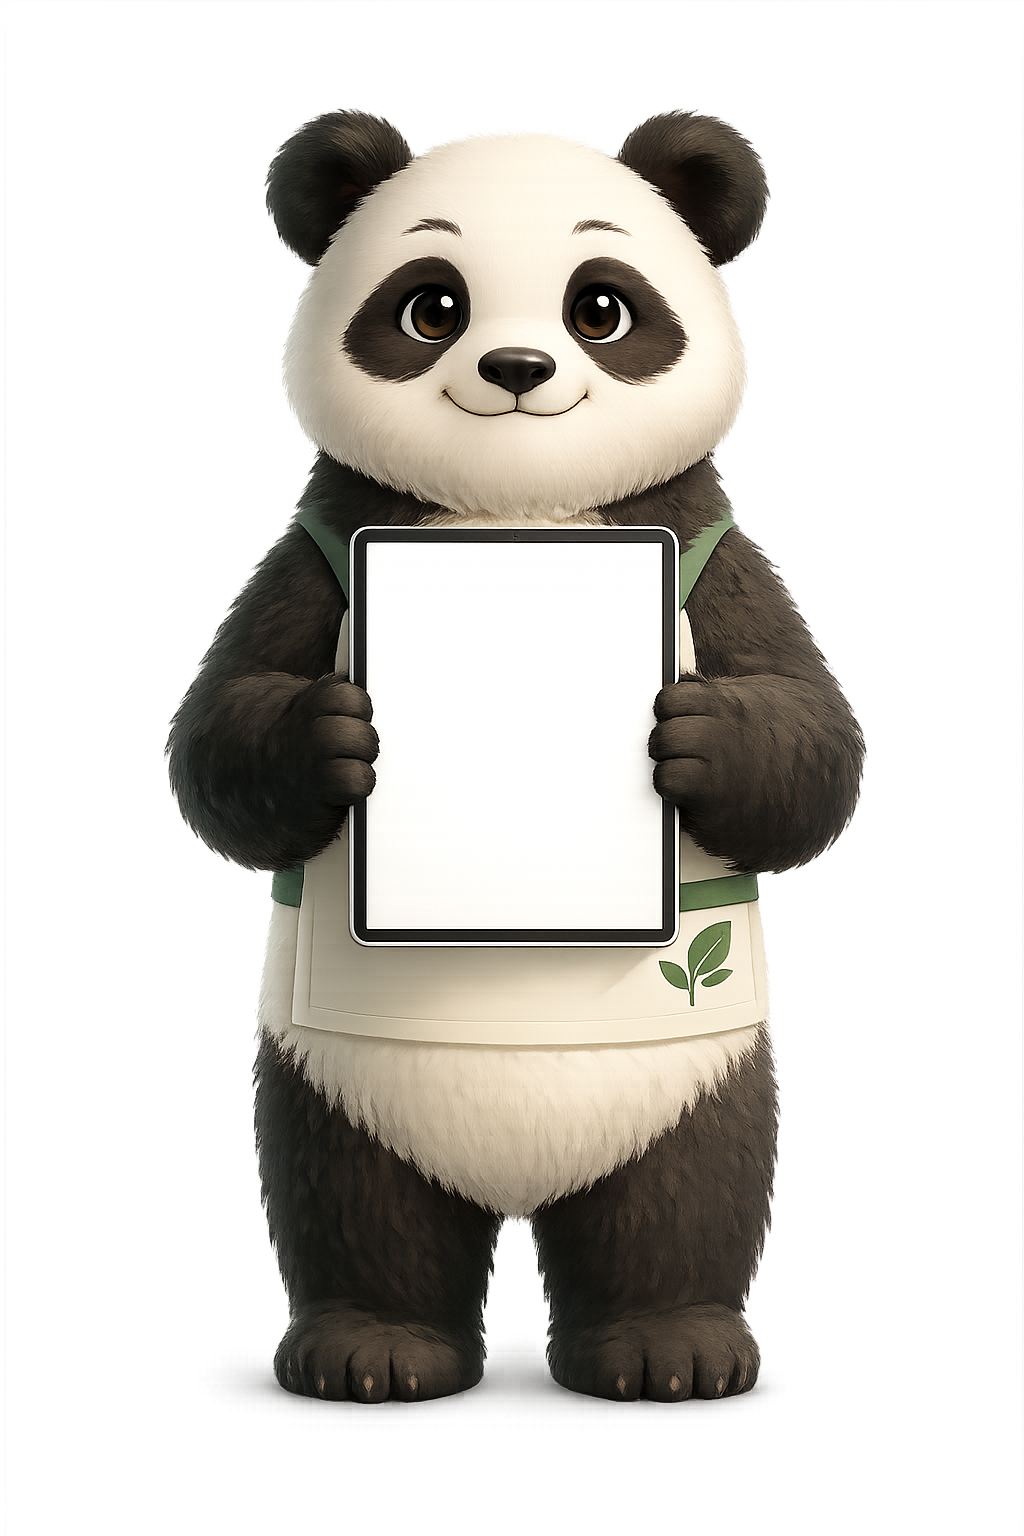
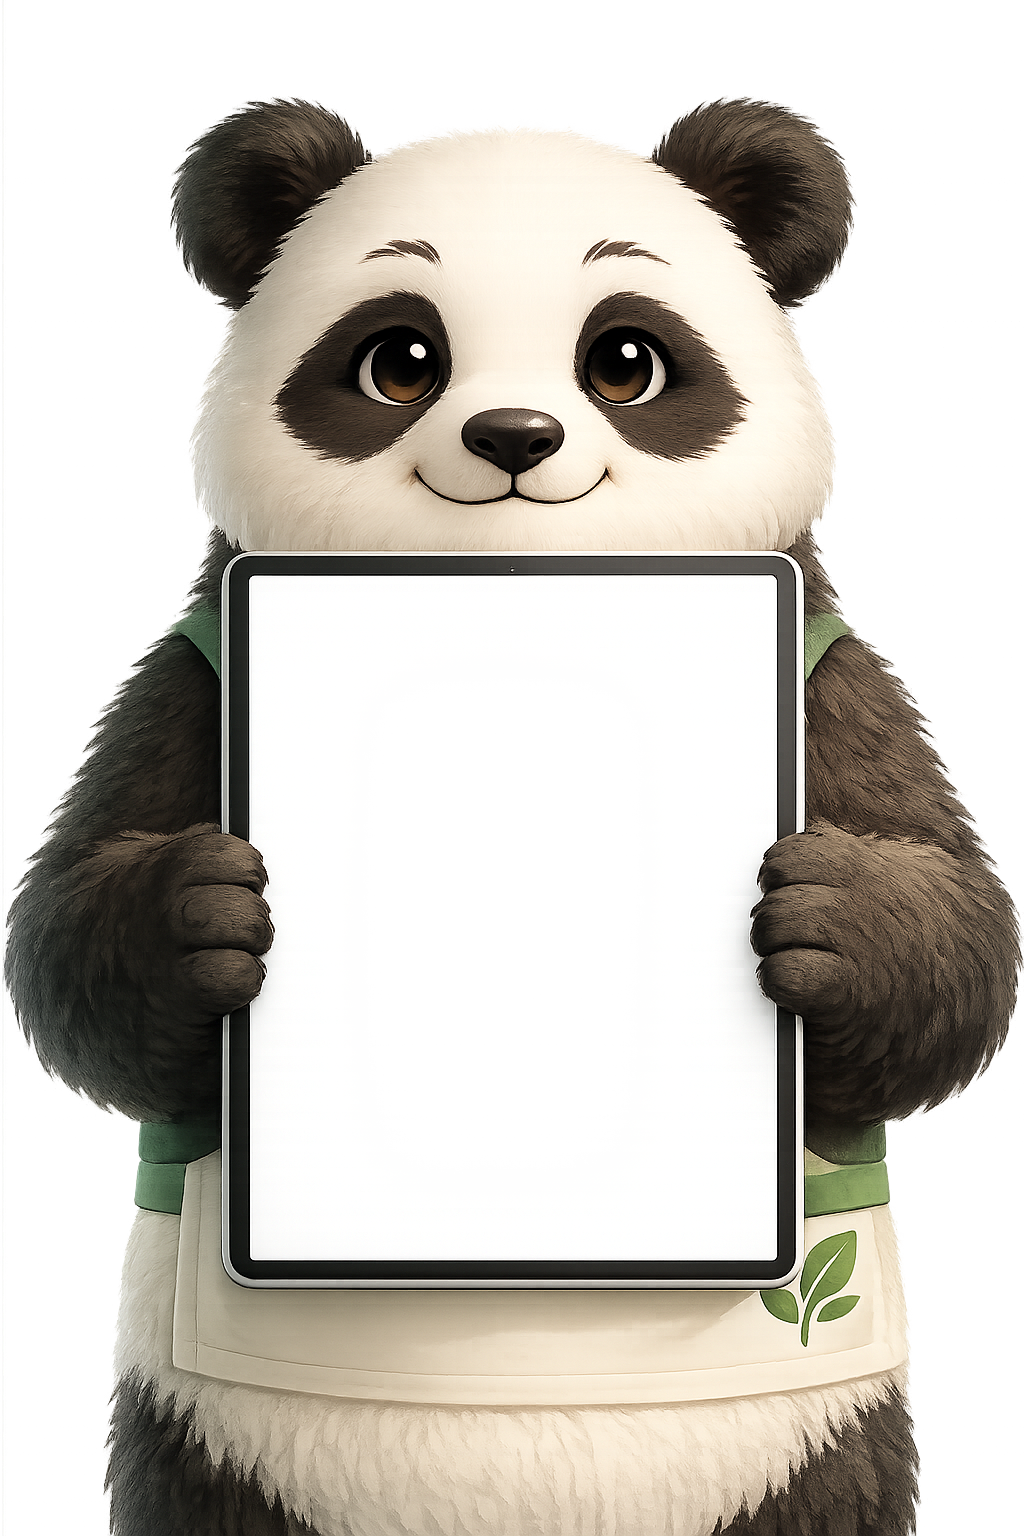
fullbleed: bigger tablet — restore comfortable form typography
- New panda PNG (1024×1536) with the tablet at ~51%×46% of frame
  (vs 32%×26% previously). Black bg flood-filled to transparent.
- Screen-rect re-measured: top 35.9 / left 24.4 / right 24.2 /
  bottom 18.0
- max-width: 760 → 720 (column has enough room now)
- Form typography restored to readable sizes:
    h3 13→18, labels 9→10.5, inputs 10.5→13,
    button 11→13, fine 8→10.5,
    paddings 14→22, gaps and margins +50–80%

diff --git a/fullbleed/index.html b/fullbleed/index.html
@@ -321,14 +321,14 @@
   .panda-tablet{
     position:relative;
     width:100%;
-    max-width:760px;
+    max-width:720px;
     margin:0 auto;
     aspect-ratio: 2 / 3;          /* matches the PNG (1024×1536) */
     /* exact screen rect measured from the PNG */
-    --screen-top:    35.4%;
-    --screen-left:   34.4%;
-    --screen-right:  33.8%;
-    --screen-bottom: 38.5%;
+    --screen-top:    35.9%;
+    --screen-left:   24.4%;
+    --screen-right:  24.2%;
+    --screen-bottom: 18.0%;
   }
   .panda-tablet .pt-image{
     width:100%;height:100%;object-fit:contain;display:block;
@@ -350,33 +350,32 @@
     left:var(--screen-left);
     right:var(--screen-right);
     bottom:var(--screen-bottom);
-    margin:0;padding:14px 13px;
-    border-radius:6px;
+    margin:0;padding:22px 22px;
+    border-radius:8px;
     background:#fff;color:var(--ink-900);
     box-shadow:none;
-    overflow:hidden;              /* keep it inside the bezel */
+    overflow:hidden;              /* keep content inside the bezel */
     display:flex;flex-direction:column;
   }
-  /* Aggressively compress so the whole form sits on the tablet screen */
-  .panda-tablet .pt-form h3{font-size:13px;font-weight:700;margin:0 0 6px;line-height:1.2}
-  .panda-tablet .pt-form .fc-sub{display:none}
-  .panda-tablet .pt-form .field{margin-bottom:6px;display:flex;flex-direction:column}
-  .panda-tablet .pt-form .field label{font-size:9px;font-weight:600;margin-bottom:2px;letter-spacing:.02em;text-transform:uppercase;color:var(--muted)}
+  .panda-tablet .pt-form h3{font-size:18px;font-weight:700;margin:0 0 4px;line-height:1.2}
+  .panda-tablet .pt-form .fc-sub{margin:0 0 14px;font-size:12px;color:var(--muted);line-height:1.4}
+  .panda-tablet .pt-form .field{margin-bottom:12px;display:flex;flex-direction:column}
+  .panda-tablet .pt-form .field label{font-size:10.5px;font-weight:700;margin-bottom:4px;letter-spacing:.06em;text-transform:uppercase;color:var(--muted)}
   .panda-tablet .pt-form .field input,
   .panda-tablet .pt-form .field select{
-    padding:5px 7px;font-size:10.5px;border-radius:4px;
+    padding:9px 11px;font-size:13px;border-radius:5px;
     border:1px solid var(--line);background:#fff;font-family:inherit;color:var(--ink-900);
   }
   .panda-tablet .pt-form .field input:focus,
   .panda-tablet .pt-form .field select:focus{outline:none;border-color:var(--green-700);box-shadow:0 0 0 2px rgba(15,61,46,.12)}
-  .panda-tablet .pt-form .field-row{display:grid;grid-template-columns:1fr 1fr;gap:7px;margin-bottom:6px}
+  .panda-tablet .pt-form .field-row{display:grid;grid-template-columns:1fr 1fr;gap:10px;margin-bottom:12px}
   .panda-tablet .pt-form .field-row .field{margin-bottom:0}
   .panda-tablet .pt-form .btn-primary{
-    padding:7px 8px;font-size:11px;border-radius:4px;
+    padding:11px 14px;font-size:13px;border-radius:5px;
     margin-top:4px;justify-content:center;
   }
-  .panda-tablet .pt-form .btn-primary .arrow{width:10px;height:10px}
-  .panda-tablet .pt-form .fine{margin:6px 0 0;font-size:8px;line-height:1.4;color:var(--muted)}
+  .panda-tablet .pt-form .btn-primary .arrow{width:12px;height:12px}
+  .panda-tablet .pt-form .fine{margin:10px 0 0;font-size:10.5px;line-height:1.45;color:var(--muted)}
   /* Mobile: drop the panda+tablet visual, full-width form */
   @media (max-width:760px){
     .panda-tablet{max-width:none;aspect-ratio:auto}